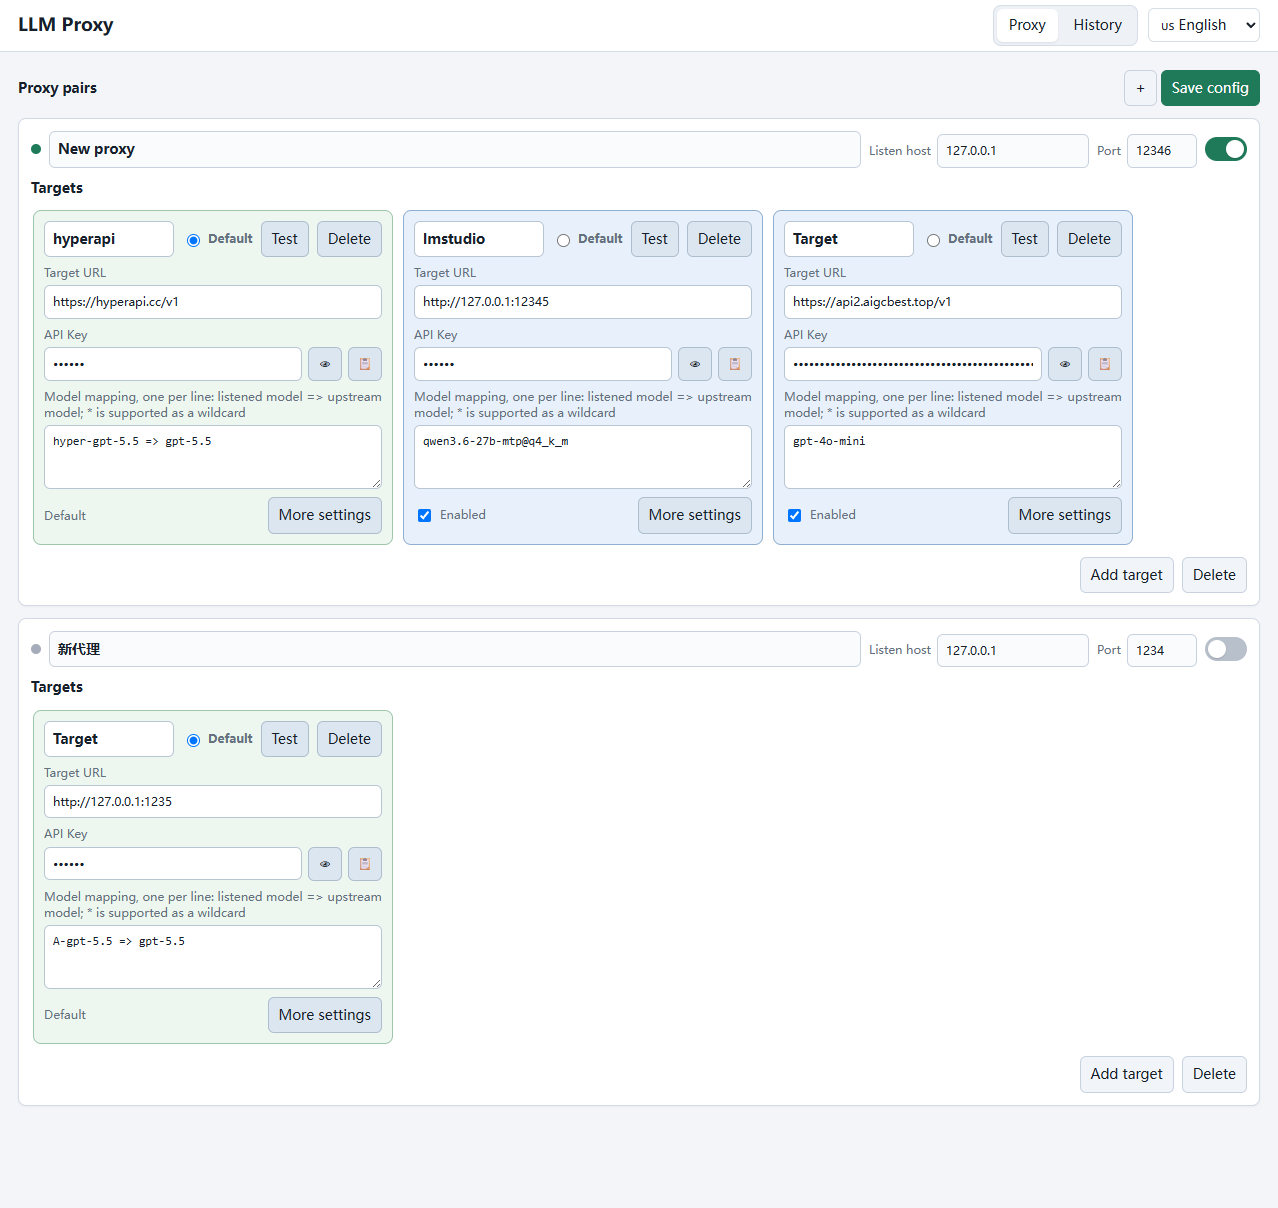
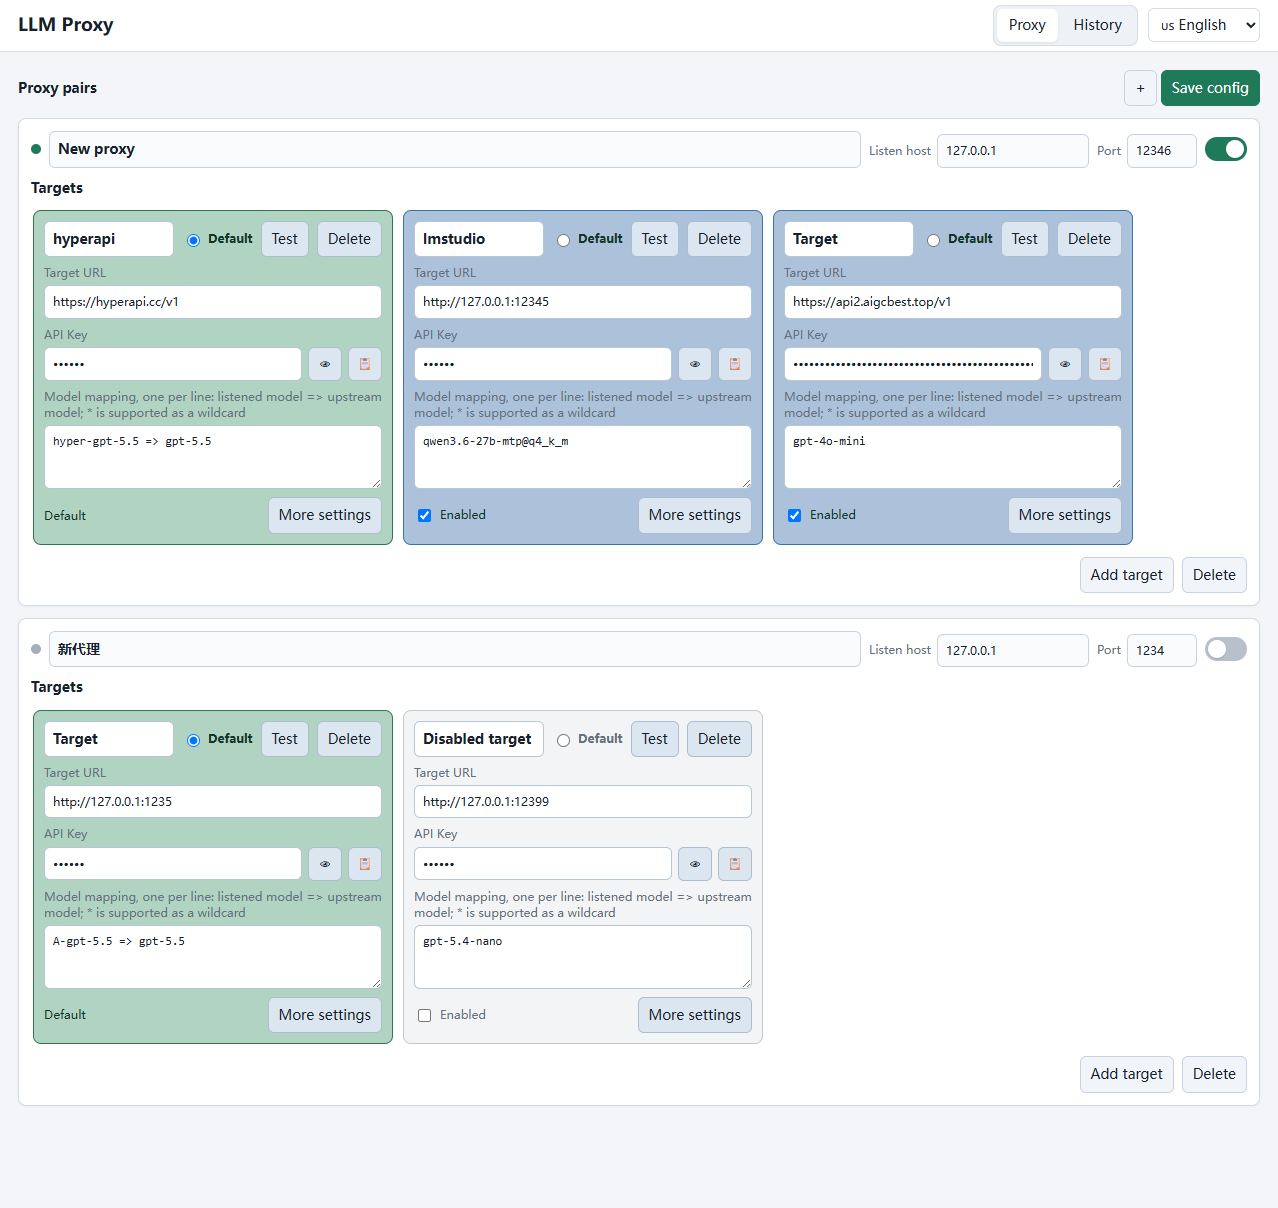
feat(admin): recolor target cards by state and cover disabled card in UI baseline
Default target cards use light green, enabled light blue, disabled light gray; dark label override keeps the state tags readable. The visual baseline fixture now places a disabled target in the second pair so all three states appear in the screenshots.

diff --git a/test-node/ui/admin-ui.test.ts b/test-node/ui/admin-ui.test.ts
@@ -512,9 +512,9 @@ describe("admin UI proxy page", { timeout: UI_TEST_TIMEOUT_MS }, () => {
     await expectPage(targets.nth(0)).toHaveClass(/is-disabled-target/);
     await expectPage(targets.nth(0)).toHaveCSS("background-color", "rgb(243, 244, 246)");
     await expectPage(targets.nth(1)).toHaveClass(/is-default-target/);
-    await expectPage(targets.nth(1)).toHaveCSS("background-color", "rgb(237, 247, 240)");
+    await expectPage(targets.nth(1)).toHaveCSS("background-color", "rgb(176, 211, 194)");
     await expectPage(targets.nth(2)).toHaveClass(/is-enabled-target/);
-    await expectPage(targets.nth(2)).toHaveCSS("background-color", "rgb(232, 241, 251)");
+    await expectPage(targets.nth(2)).toHaveCSS("background-color", "rgb(172, 194, 219)");
   });
 
   it("toggles and copies the target API key", async () => {
@@ -1515,6 +1515,14 @@ function visualPairs(): PublicProxyPair[] {
           "sk-...",
           "A-gpt-5.5 => gpt-5.5",
           true,
+        ),
+        target(
+          "visual-disabled",
+          "Disabled target",
+          "http://127.0.0.1:12399",
+          "sk-...",
+          "gpt-5.4-nano",
+          false,
         ),
       ],
     },

diff --git a/src/admin/static/app.css b/src/admin/static/app.css
@@ -205,12 +205,12 @@ main {
   align-self: start;
 }
 .target-card.is-default-target {
-  background: #edf7f0;
-  border-color: #9fc5aa;
+  background: #b0d3c2;
+  border-color: #357451;
 }
 .target-card.is-enabled-target {
-  background: #e8f1fb;
-  border-color: #91afd0;
+  background: #acc2db;
+  border-color: #3c74a6;
 }
 .target-card.is-disabled-target {
   background: #f3f4f6;
@@ -256,6 +256,12 @@ main {
 }
 .default-target input {
   width: auto;
+}
+.target-card.is-default-target .default-target,
+.target-card.is-enabled-target .default-target,
+.target-card.is-default-target .target-enabled,
+.target-card.is-enabled-target .target-enabled {
+  color: #123527;
 }
 .target-options {
   display: grid;

diff --git a/docs/refactoring/ui-visual-baseline.md b/docs/refactoring/ui-visual-baseline.md
@@ -10,8 +10,8 @@
 
 | 页面 | 语言 | 文件 | 图片尺寸 | SHA-256 |
 | --- | --- | --- | --- | --- |
[6 lines of base64/hex data omitted]
 
@@ -28,7 +28,8 @@ sha256sum doc/ui_proxy_cn.png doc/ui_proxy_en.png doc/ui_logs_cn.png doc/ui_logs
 - 顶部白色 Header，左侧产品名，右侧 Tab 和语言选择器。
 - 页面浅灰背景，代理为白色圆角卡片。
 - 代理名称、运行圆点、监听地址、端口和开关位于同一行。
-- Target 使用浅蓝灰卡片，并在代理卡片内按可用宽度自动换行排列。
+- Target 卡片按状态区分背景色：默认目标浅绿色、已启用浅蓝色、未启用浅灰色，并在代理卡片内按可用宽度自动换行排列。
+- fixture 中第一个代理包含默认与已启用卡片，第二个代理包含一张未启用卡片，用于覆盖三种状态。
 - Target 默认展示名称、默认目标、URL、API Key、模型映射、启用状态和“更多配置”。
 - API Key 输入框包含显隐与复制按钮。
 - 代理卡片底部右侧包含添加 Target 和删除代理操作。
